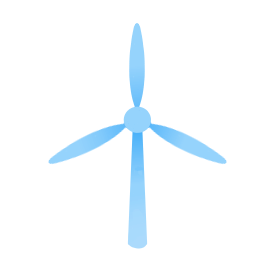
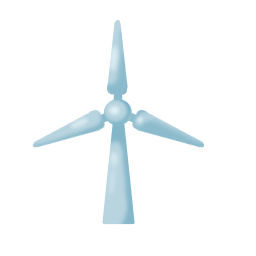
text rendering

Changed region(s): [[0.125, 0.0625, 0.9062, 0.9688]]

diff --git a/src/render_text.c b/src/render_text.c
@@ -1,0 +1,192 @@
+#include <stdint.h>
+#include <string.h>
+
+#include "displayutils.h"
+
+#include "qprint.h"
+
+
+
+
+texture_t render_text(texture_t bitmap_font, char* str, uint32_t width){
+
+	const uint32_t cw = 7;
+	const uint32_t ch = 7;
+
+	uint32_t len = strlen(str);
+	uint32_t height = (len / width) + 1;
+	uint32_t i=0;
+	while(str[i++]) if(str[i] == '\n') height++;
+
+	texture_t t = {width*(cw+1)-1, height*(ch+1)-1, 0};
+	t.pixels = malloc(t.width * t.height * sizeof(uint32_t));
+	if(!t.pixels){
+		qerror("Failed to malloc pixels in render_text\n");
+	}
+	for(int32_t i = 0; i < t.width*t.height; i++){
+		t.pixels[i] = 0xff000000;
+	}
+
+	int32_t x = 0;
+	int32_t y = 0;
+
+	uint32_t mx = 0;
+	uint32_t my = 0;
+
+	i=0;
+	while(str[i]){
+		if(str[i] == '\n'){
+			x = 0;
+			y += ch+1;
+			i++;
+			continue;
+		}
+		else if('A' <= str[i] && str[i] <= 'M'){
+			qprint("AAAAAAAAaa\n");
+			mx = (str[i]-'A')*(cw+1);
+			my = 0;
+		}
+		else if('N' <= str[i] && str[i] <= 'Z'){
+			mx = (str[i]-'N')*(cw+1);
+			my = ch+1;
+		}
+		else if('a' <= str[i] && str[i] <= 'm'){
+			mx = (str[i]-'a')*(cw+1);
+			my = 2*(ch+1);
+		}
+		else if('n' <= str[i] && str[i] <= 'z'){
+			mx = (str[i]-'n')*(cw+1);
+			my = 3*(ch+1);
+		}
+		else if('0' <= str[i] && str[i] <= '9'){
+			mx = (str[i]-'0')*(cw+1);
+			my = 4*(ch+1);
+		}
+		else if(str[i] == '+'){
+			mx = 10*(cw+1);
+			my = 4*(ch+1);
+		}
+		else if(str[i] == '-'){
+			mx = 11*(cw+1);
+			my = 4*(ch+1);
+		}
+		else if(str[i] == '='){
+			mx = 12*(cw+1);
+			my = 4*(ch+1);
+		}
+		else if(str[i] == '('){
+			mx = 0*(cw+1);
+			my = 5*(ch+1);
+		}
+		else if(str[i] == ')'){
+			mx = 1*(cw+1);
+			my = 5*(ch+1);
+		}
+		else if(str[i] == '['){
+			mx = 2*(cw+1);
+			my = 5*(ch+1);
+		}
+		else if(str[i] == ']'){
+			mx = 3*(cw+1);
+			my = 5*(ch+1);
+		}
+		else if(str[i] == '{'){
+			mx = 4*(cw+1);
+			my = 5*(ch+1);
+		}
+		else if(str[i] == '}'){
+			mx = 5*(cw+1);
+			my = 5*(ch+1);
+		}
+		else if(str[i] == '<'){
+			mx = 6*(cw+1);
+			my = 5*(ch+1);
+		}
+		else if(str[i] == '>'){
+			mx = 7*(cw+1);
+			my = 5*(ch+1);
+		}
+		else if(str[i] == '/'){
+			mx = 8*(cw+1);
+			my = 5*(ch+1);
+		}
+		else if(str[i] == '*'){
+			mx = 9*(cw+1);
+			my = 5*(ch+1);
+		}
+		else if(str[i] == ':'){
+			mx = 10*(cw+1);
+			my = 5*(ch+1);
+		}
+		else if(str[i] == '#'){
+			mx = 11*(cw+1);
+			my = 5*(ch+1);
+		}
+		else if(str[i] == '%'){
+			mx = 12*(cw+1);
+			my = 5*(ch+1);
+		}
+		else if(str[i] == '!'){
+			mx = 0*(cw+1);
+			my = 6*(ch+1);
+		}
+		else if(str[i] == '?'){
+			mx = 1*(cw+1);
+			my = 6*(ch+1);
+		}
+		else if(str[i] == '.'){
+			mx = 2*(cw+1);
+			my = 6*(ch+1);
+		}
+		else if(str[i] == ','){
+			mx = 3*(cw+1);
+			my = 6*(ch+1);
+		}
+		else if(str[i] == '\''){
+			mx = 4*(cw+1);
+			my = 6*(ch+1);
+		}
+		else if(str[i] == '"'){
+			mx = 5*(cw+1);
+			my = 6*(ch+1);
+		}
+		else if(str[i] == '@'){
+			mx = 6*(cw+1);
+			my = 6*(ch+1);
+		}
+		else if(str[i] == '&'){
+			mx = 7*(cw+1);
+			my = 6*(ch+1);
+		}
+		else if(str[i] == '$'){
+			mx = 8*(cw+1);
+			my = 6*(ch+1);
+		}
+		else if(str[i] == ' '){
+			mx = 12*(cw+1);
+			my = 6*(ch+1);
+		}
+		else{
+			mx = 6*(cw+1);
+			my = 6*(ch+1);
+		}
+
+		for(uint32_t dy=0; dy<ch; dy++){
+			for(uint32_t dx=0; dx<cw; dx++){
+				qvald(mx);
+				qvald(my);
+				// t.pixels[((y+dy)*t.width) + (x+dx)] = bitmap_font.pixels[(((ch+1)*my)+dy)*bitmap_font.width + (((cw+1)*mx)+dx)];
+				t.pixels[((y+dy)*t.width) + (x+dx)] = bitmap_font.pixels[(my+dy)*bitmap_font.width + mx+dx];
+				// t.pixels[(y+dy)*t.width + (x+dx)] = 0xff000000;
+				// qvald(x+dx);
+			}
+		}
+		x+=cw+1;
+		if(x>=t.width){
+			x = 0;
+			y+=ch+1;
+		}
+		i++;
+	}
+	return t;
+}

diff --git a/src/main.c b/src/main.c
@@ -8,6 +8,7 @@
 #include "initsdl.h"
 #include "sdlmanager.h"
 #include "displayutils.h"
+#include "render_text.h"
 
 #include "click.h"
 #include "vectors.h"
@@ -54,9 +55,9 @@ int main(int argc, char** argv){
 	texture_t img_heatmap = load_image("assets/placeholder_heatmap.jpg");
 	texture_t img_windmap = load_image("assets/placeholder_windmap.png");
 
-	texture_t img_pin = load_image("assets/placeholder_pin.png");
+	texture_t img_pin = load_image("assets/pin.png");
 	
-	texture_t img_button_world = load_image("assets/placeholder_button_world.png");
+	texture_t img_button_world = load_image("assets/button_world.png");
 
 	texture_t img_solarpanel_base = load_image("assets/solarpanel_base.png");
 	texture_t img_solarpanel_humid = load_image("assets/solarpanel_humid.png");
@@ -66,6 +67,13 @@ int main(int argc, char** argv){
 	qlog("loaded testimg\n");
 	disp_image(layer_background, testimg, (vec2ui){0, 0}, (vec2ui){WIDTH, HEIGHT});
 	qlog("displayed testimg\n");
+
+	texture_t bitmap_font = load_image("assets/bitmapfont.png");
+
+	texture_t testtext = render_text(bitmap_font, "test?!", 8);
+	// disp_image(layer_background, testtext, (vec2ui){0, 0}, (vec2ui){240, 80});
+	disp_image(layer_background, testtext, (vec2ui){0, 0}, (vec2ui){640, 80});
+
 
 
 /*
@@ -85,8 +93,8 @@ int main(int argc, char** argv){
 	texture_t ui_button_textures[ui_button_count];
 	
 	ui_button_textures[0] = img_button_world;
-	ui_button_textures[1] = img_solarpanel_base;
-	ui_button_textures[2] = img_windturbine_base;
+	ui_button_textures[1] = img_windturbine_base;
+	ui_button_textures[2] = img_solarpanel_base;
 	
 	vec2ui ui_button_size = {128, 128};
 	// vec2ui ui_button_start = {WIDTH - ui_button_size.x, (HEIGHT/2)};
@@ -146,11 +154,11 @@ int main(int argc, char** argv){
 				case BT_SHOW_WORLD:
 					disp_image(layer_background, img_world, (vec2ui){0, 0}, (vec2ui){WIDTH, HEIGHT});
 					break;
-				case BT_SHOW_HEAT:
-					disp_image(layer_background, img_heatmap, (vec2ui){0, 0}, (vec2ui){WIDTH, HEIGHT});
-					break;
 				case BT_SHOW_WIND:
 					disp_image(layer_background, img_windmap, (vec2ui){0, 0}, (vec2ui){WIDTH, HEIGHT});
+					break;
+				case BT_SHOW_HEAT:
+					disp_image(layer_background, img_heatmap, (vec2ui){0, 0}, (vec2ui){WIDTH, HEIGHT});
 					break;
 				default:
 					break;

diff --git a/include/render_text.h b/include/render_text.h
@@ -1,0 +1,9 @@
+#ifndef RENDER_TEXT_H
+#define RENDER_TEXT_H
+
+#include <stdint.h>
+#include "displayutils.h"
+
+texture_t render_text(texture_t bitmap_font, char* str, uint32_t width);
+
+#endif

diff --git a/include/button_tags.h b/include/button_tags.h
@@ -2,7 +2,7 @@
 #define BUTTON_TAGS_H
 
 #define BT_SHOW_WORLD 0x0100
-#define BT_SHOW_HEAT 0x0200
-#define BT_SHOW_WIND 0x0300
+#define BT_SHOW_WIND 0x0200
+#define BT_SHOW_HEAT 0x0300
 
 #endif
